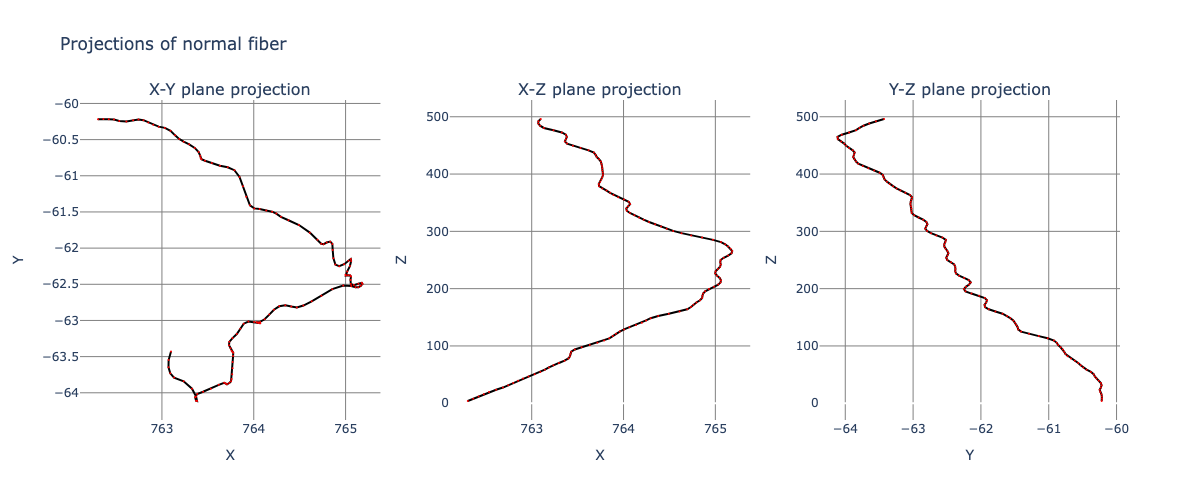
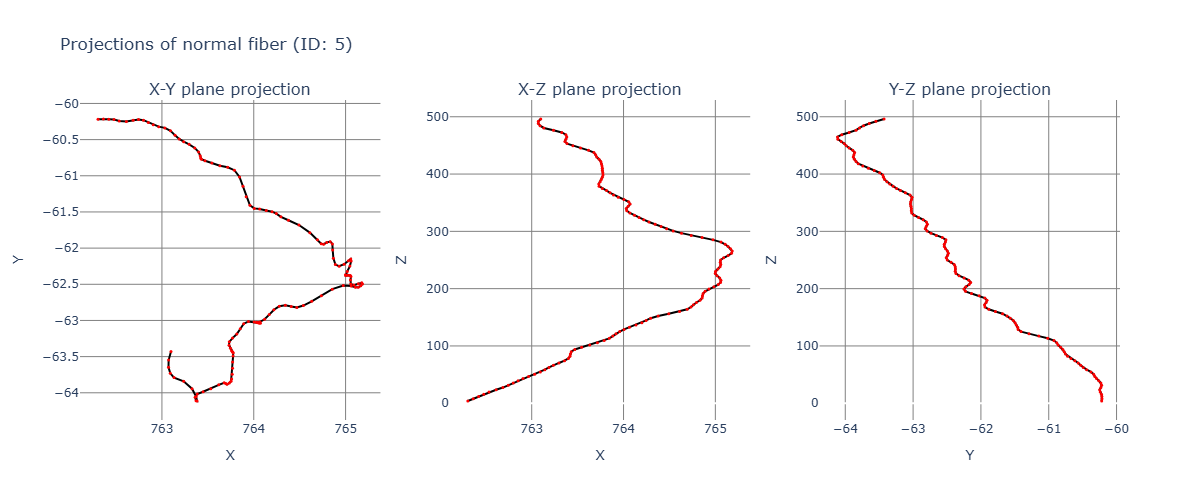
more pltos

diff --git a/scrips/plot.py b/scrips/plot.py
@@ -225,7 +225,7 @@ def single_fiber_plot(df,id,category): #category here means if its a normal or a
     )
     #update layout
     fig.update_layout(
-        title_text=f"Projections of {category} fiber",
+        title_text=f"Projections of {category} fiber (ID: {id})",
         height=500,
         width=1200,
         showlegend=False,
@@ -280,7 +280,7 @@ def plot_fibers(df,title):
     """
     uses a dataframe and title to make a 3D plot of all fibers in the dataframe
     """
-    df = df[(df['x'] < 70) & (df['y'] > -70)]#change/uncomment this if you want to reduce the number of fibers for faster computation
+    #df = df[(df['x'] < 70) & (df['y'] > -70)] #change/uncomment this if you want to reduce the number of fibers for faster computation
     #plot a 3D plot of the fibers per number of clusters
     fig = px.line_3d(
         df, 
@@ -290,7 +290,7 @@ def plot_fibers(df,title):
     )
     fig.update_layout(
     scene=dict(aspectmode="manual",
-            aspectratio=dict(x=1, y=1, z=0.4)) #change these values if you want to change the aspect ratio of the image
+            aspectratio=dict(x=1, y=1, z=1)) #change these values if you want to change the aspect ratio of the image
     )
     #fig.show()
 

diff --git a/scrips/main.py b/scrips/main.py
@@ -24,7 +24,6 @@ plot_ellipse(df,1)
 #Make 2D plot of fiber projection plot
 single_fiber_plot(df,5,'normal')
 single_fiber_plot(raw_df,129,'highly misaligned')
-plot_fibers(raw_df,'pluh')
 
 #Make 1D histograms of ellipsetilt vs angle 
 One_D_ellipse_tilt_hist(df)
